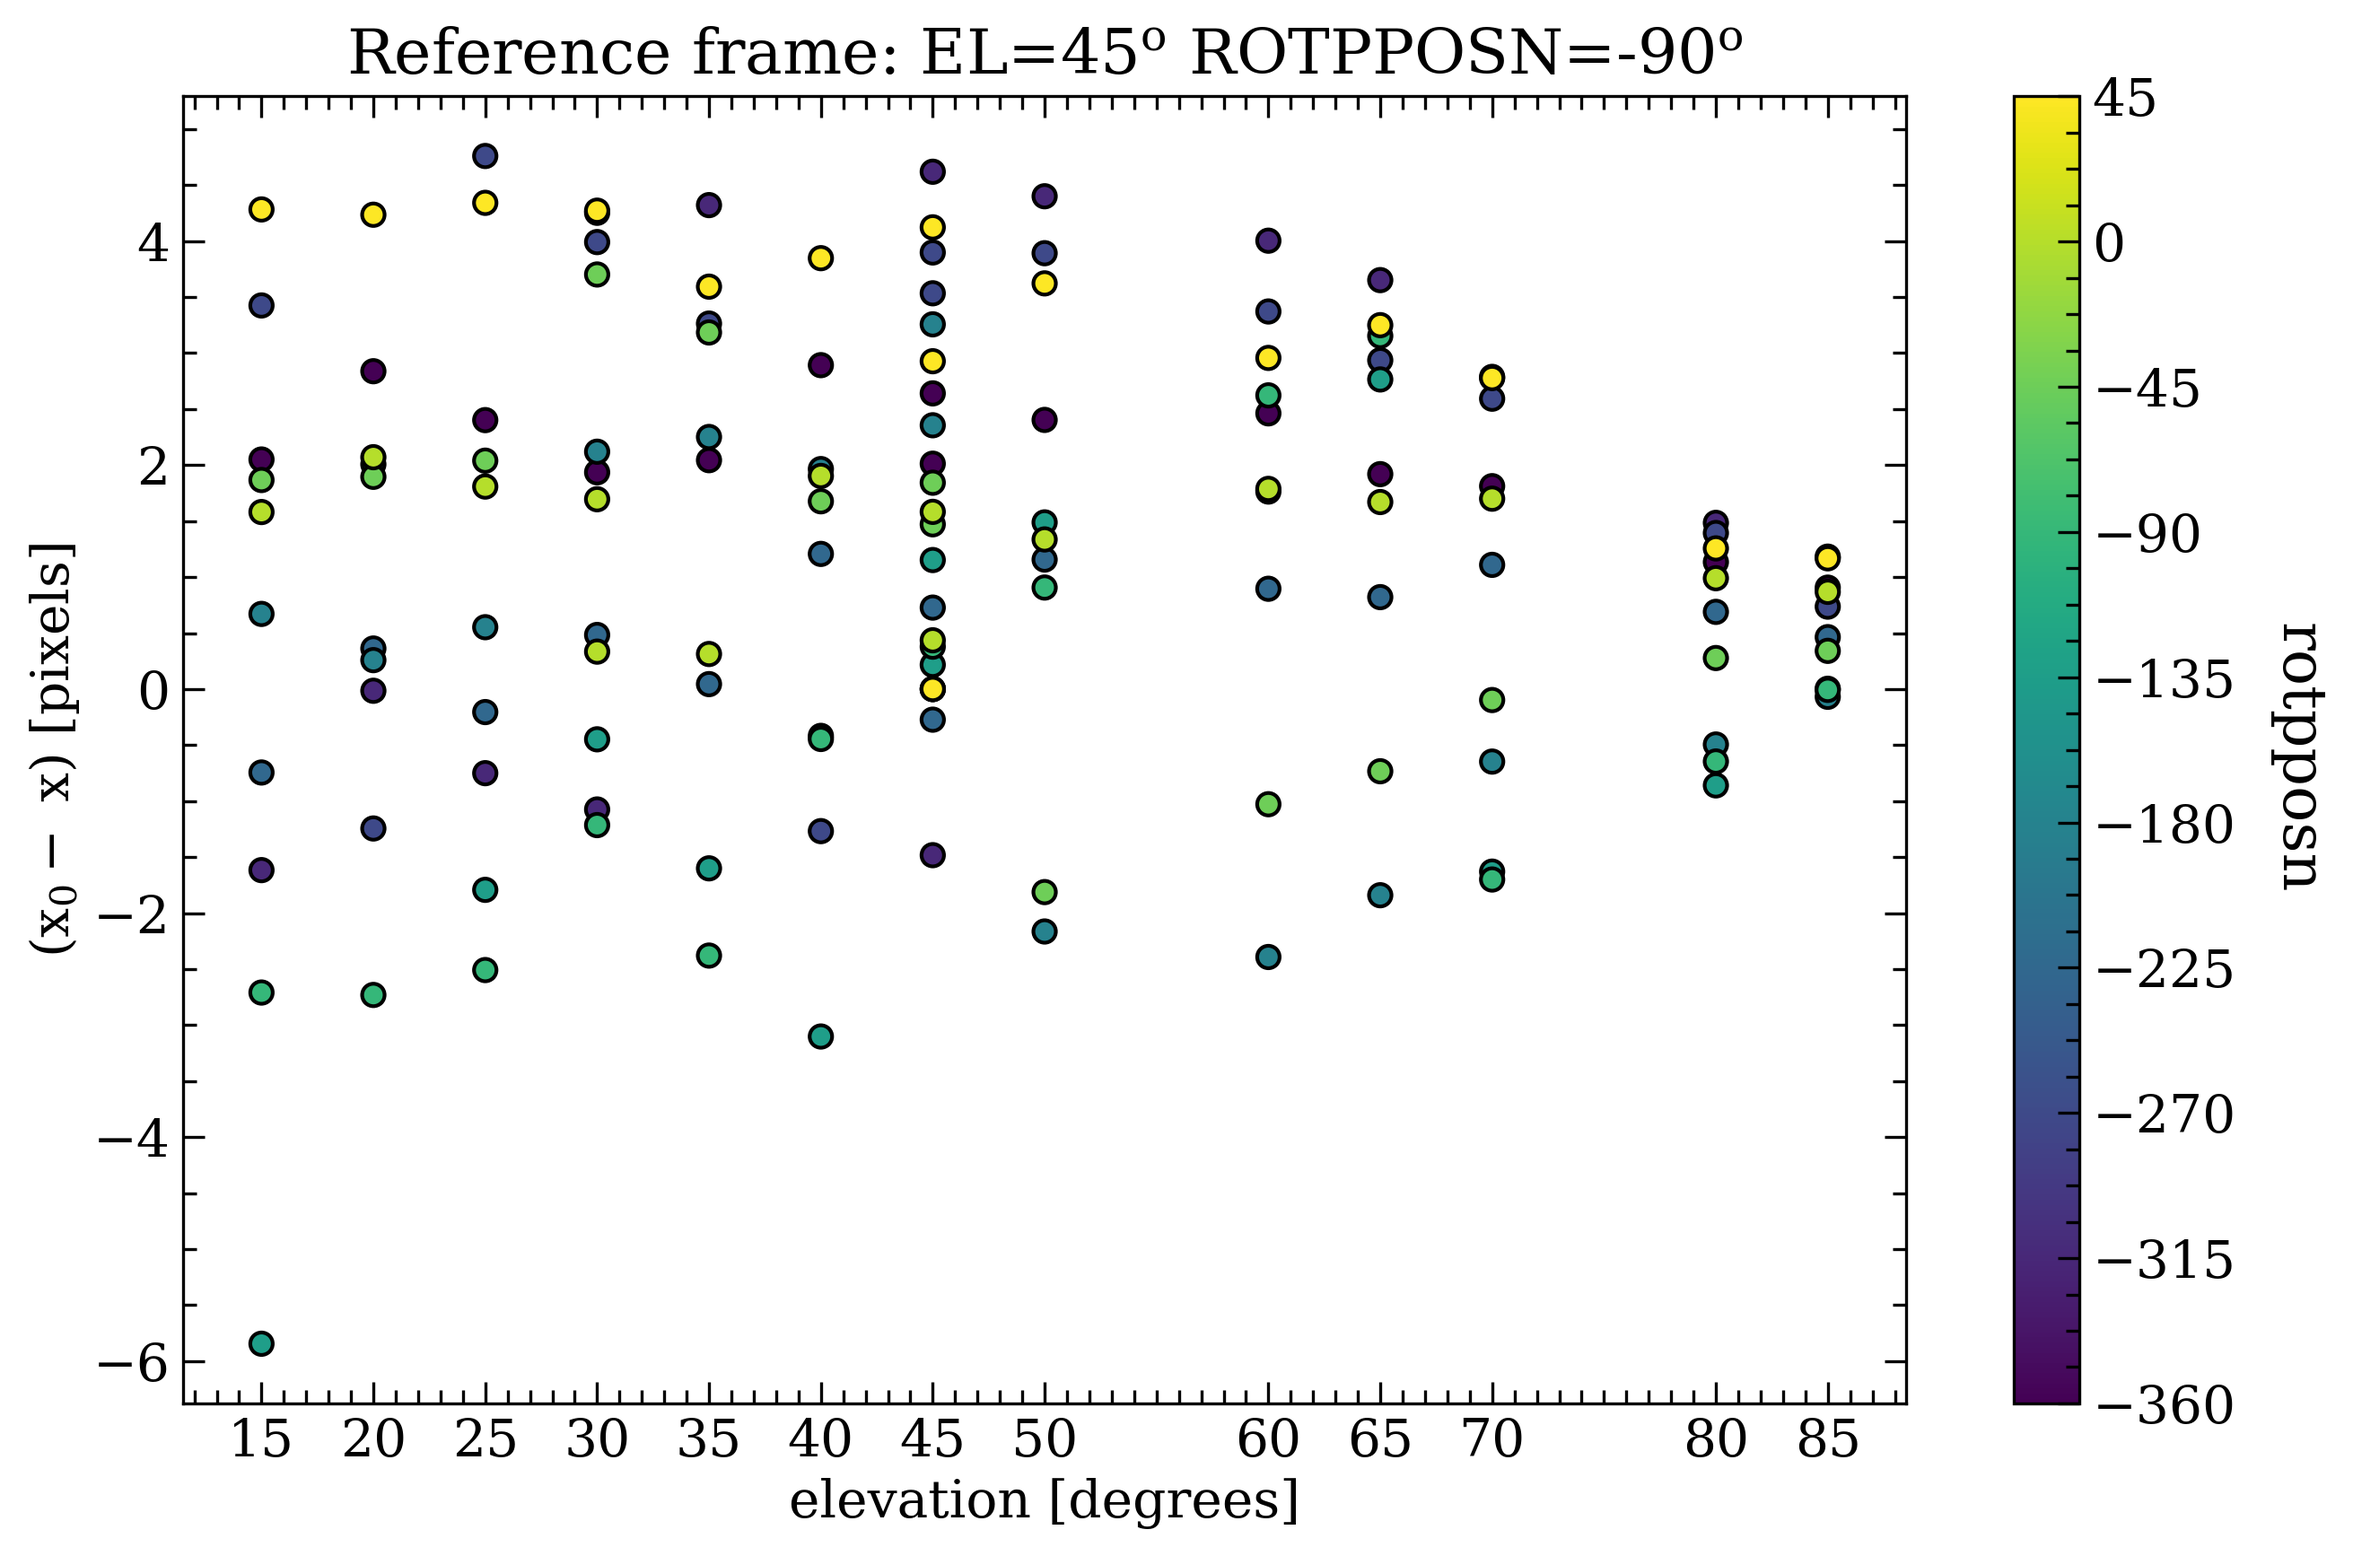
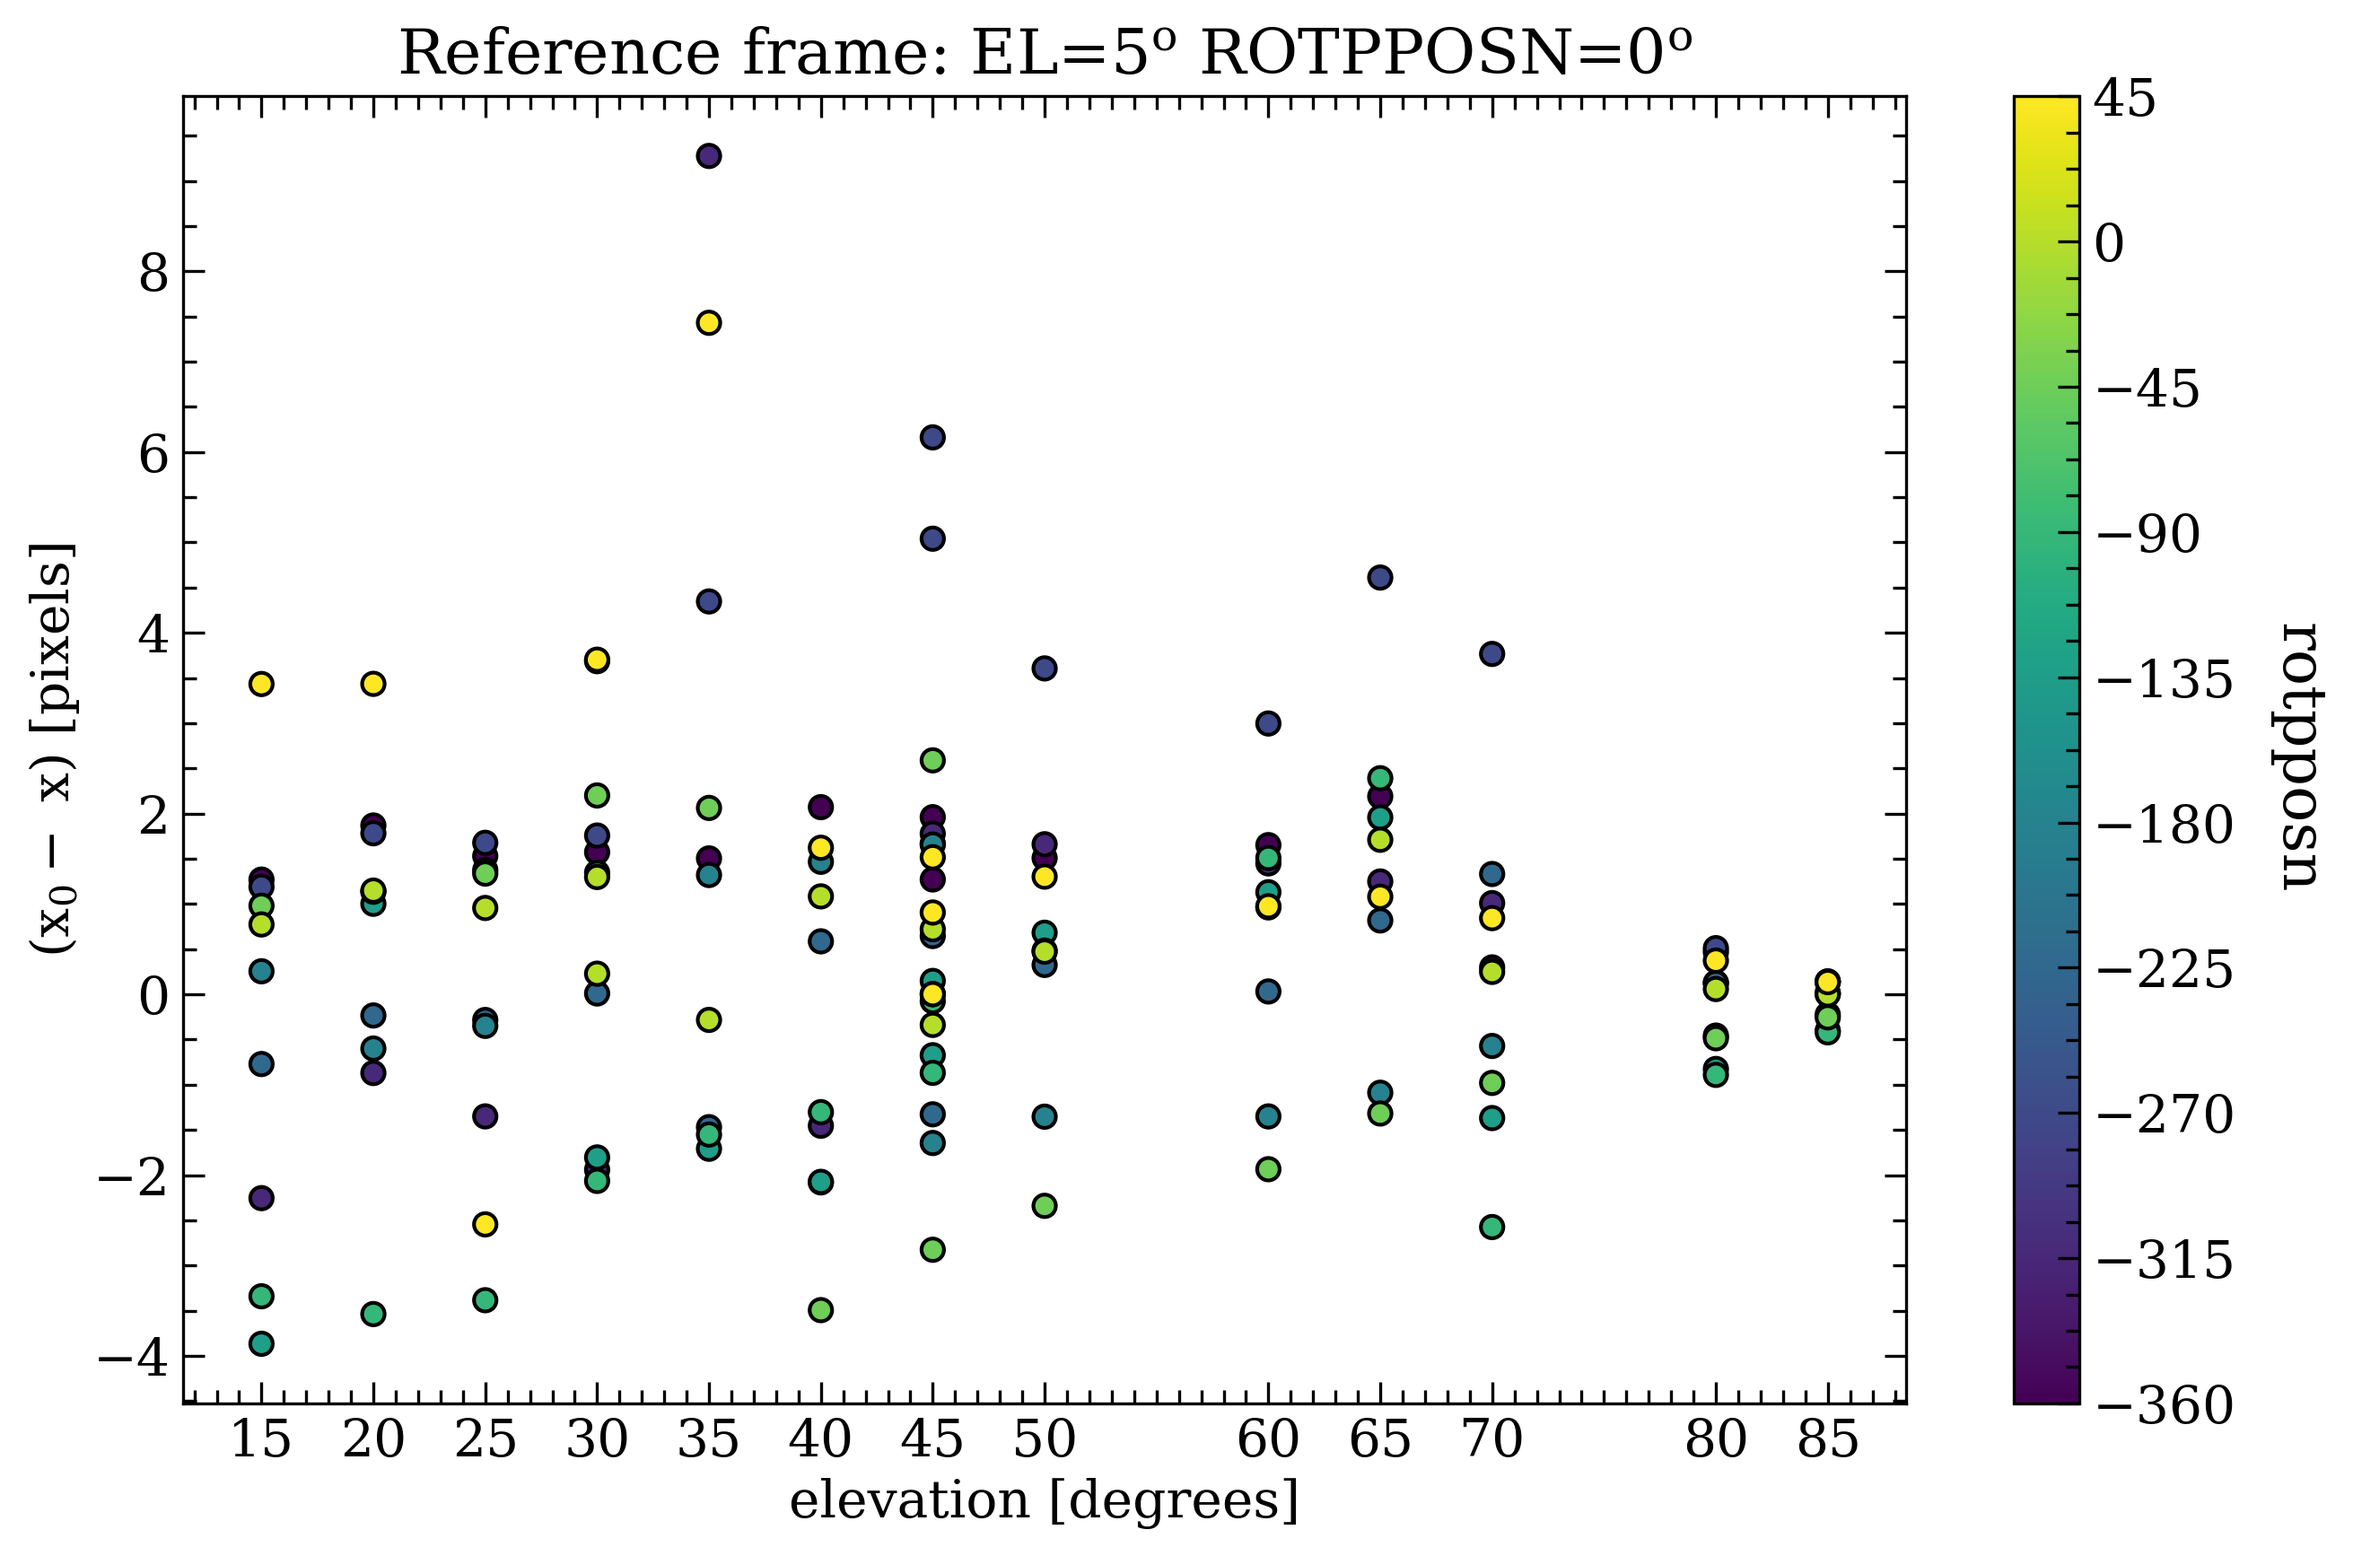
Updating reference frame.

diff --git a/engineering_time/visualize.py b/engineering_time/visualize.py
@@ -28,12 +28,12 @@ def xyshift(df,rotcolor=True,savefig=True):
 	else:
 		plt.scatter(df.xshift,df.yshift,edgecolor='k',zorder=5)
 
-	plt.title('Reference frame: EL=45$^\mathrm{o}$ ROTPPOSN=-90$^\mathrm{o}	$')
+	plt.title('Reference frame: EL=5$^\mathrm{o}$ ROTPPOSN=0$^\mathrm{o}	$')
 	plt.xlabel('(x$_0 -$ x) [pixels]')
 	plt.ylabel('(y$_0 -$ y) [pixels]')
 
 	plt.tight_layout()
-	if savefig == True: plt.savefig('xyshift.png')
+	if savefig == True: plt.savefig('../plots-data/data_FCS/xyshift.png',dpi=300)
 	else: plt.show()
 	plt.close('all')
 
@@ -51,12 +51,12 @@ def xshift_rot(df,savefig=True):
 	cbar.set_ticks(np.sort(elevations))
 	plt.text(1.16,0.4,'elevation',rotation=270,transform=plt.gca().transAxes,fontsize=16)
 
-	plt.title('Reference frame: EL=45$^\mathrm{o}$ ROTPPOSN=-90$^\mathrm{o}	$')
+	plt.title('Reference frame: EL=5$^\mathrm{o}$ ROTPPOSN=0$^\mathrm{o}	$')
 	plt.ylabel('(x$_0 -$ x) [pixels]')
 	plt.xlabel('rotpposn [degrees]')
 
 	plt.tight_layout()
-	if savefig == True: plt.savefig('xshift_rot.png')
+	if savefig == True: plt.savefig('../plots-data/data_FCS/xshift_rot.png',dpi=300)
 	else: plt.show()
 	plt.close('all')
 
@@ -73,12 +73,12 @@ def yshift_rot(df,savefig=True):
 	cbar.set_ticks(np.sort(elevations))
 	plt.text(1.16,0.4,'elevation',rotation=270,transform=plt.gca().transAxes,fontsize=16)
 
-	plt.title('Reference frame: EL=45$^\mathrm{o}$ ROTPPOSN=-90$^\mathrm{o}	$')
+	plt.title('Reference frame: EL=5$^\mathrm{o}$ ROTPPOSN=0$^\mathrm{o}	$')
 	plt.ylabel('(y$_0 -$ y) [pixels]')
 	plt.xlabel('rotpposn [degrees]')
 
 	plt.tight_layout()
-	if savefig == True: plt.savefig('yshift_rot.png')
+	if savefig == True: plt.savefig('../plots-data/data_FCS/yshift_rot.png',dpi=300)
 	else: plt.show()
 	plt.close('all')
 
@@ -95,12 +95,12 @@ def xshift_el(df,savefig=True):
 	cbar.set_ticks(np.sort(rotpposns))
 	plt.text(1.21,0.4,'rotpposn',rotation=270,transform=plt.gca().transAxes,fontsize=16)
 
-	plt.title('Reference frame: EL=45$^\mathrm{o}$ ROTPPOSN=-90$^\mathrm{o}	$')
+	plt.title('Reference frame: EL=5$^\mathrm{o}$ ROTPPOSN=0$^\mathrm{o}	$')
 	plt.ylabel('(x$_0 -$ x) [pixels]')
 	plt.xlabel('elevation [degrees]')
 
 	plt.tight_layout()
-	if savefig == True: plt.savefig('xshift_el.png')
+	if savefig == True: plt.savefig('../plots-data/data_FCS/xshift_el.png',dpi=300)
 	else: plt.show()
 	plt.close('all')
 
@@ -117,12 +117,12 @@ def yshift_el(df,savefig=True):
 	cbar.set_ticks(np.sort(rotpposns))
 	plt.text(1.21,0.4,'rotpposn',rotation=270,transform=plt.gca().transAxes,fontsize=16)
 
-	plt.title('Reference frame: EL=45$^\mathrm{o}$ ROTPPOSN=-90$^\mathrm{o}	$')
+	plt.title('Reference frame: EL=5$^\mathrm{o}$ ROTPPOSN=0$^\mathrm{o}	$')
 	plt.ylabel('(y$_0 -$ y) [pixels]')
 	plt.xlabel('elevation [degrees]')
 
 	plt.tight_layout()
-	if savefig == True: plt.savefig('yshift_el.png')
+	if savefig == True: plt.savefig('../plots-data/data_FCS/yshift_el.png',dpi=300)
 	else: plt.show()
 	plt.close('all')
 

diff --git a/engineering_time/see_shifts.py b/engineering_time/see_shifts.py
@@ -23,15 +23,15 @@ print('Range of elevation:',np.sort(elevations))
 print('Range of rotpposn:',np.sort(rotpposns),end='\n\n')
 
 # looking at x and y shifts with coloring based upon rotpposn
-#xyshift(df)
-#xshift_rot(df)
-#yshift_rot(df)
-#xshift_el(df)
-#yshift_el(df)
+xyshift(df)
+xshift_rot(df)
+yshift_rot(df)
+xshift_el(df)
+yshift_el(df)
 
 # looking at model
 num = 40
-mod.yshift_rot(num)
+#mod.yshift_rot(num)
 
 
 
